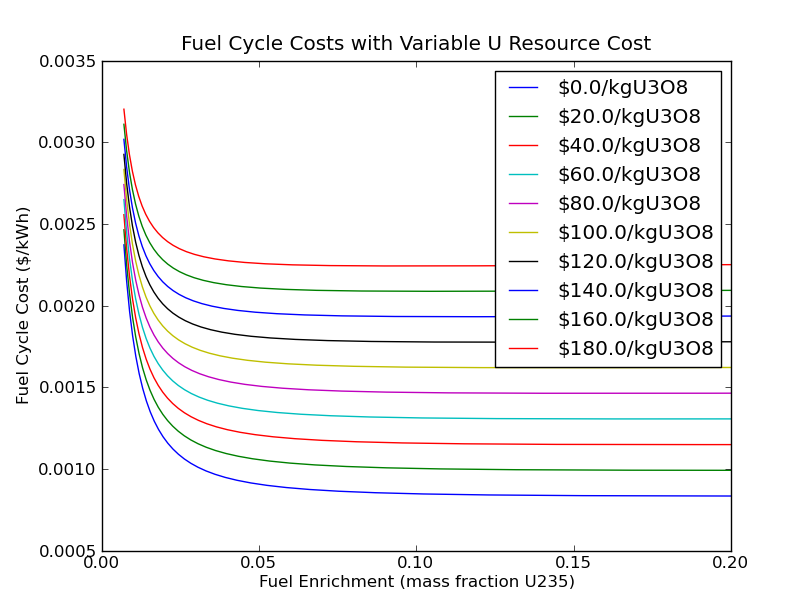
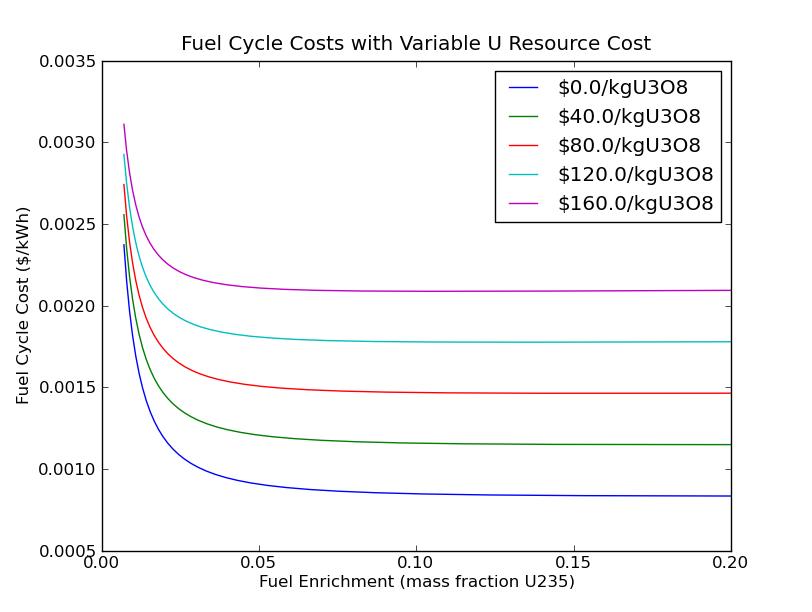
updated plots

Changed region(s): [[0.1539, 0.2173, 0.8929, 0.7451], [0.3079, 0.683, 0.8929, 0.7761], [0.7081, 0.2173, 0.7389, 0.2484]]

diff --git a/enrich.py b/enrich.py
@@ -106,7 +106,7 @@ def vary_dispose():
   maxenr = .2
   natenr = .0071
   enrichments = linspace(natenr, maxenr, 10000)
-  disp_costs = linspace(0, 2000, 10)
+  disp_costs = linspace(0, 2500, 5)
   for cost in disp_costs:
     valkg = []
     valkwh = []
@@ -129,7 +129,7 @@ def vary_mining():
   maxenr = .2
   natenr = .0071
   enrichments = linspace(natenr, maxenr, 10000)
-  mine_costs = linspace(0, 200, 10)
+  mine_costs = linspace(0, 200, 5)
   for cost in mine_costs:
     valkg = []
     valkwh = []
@@ -162,7 +162,7 @@ def swuplot():
     swus.append(s / p)
     feedswus.append(s)
 
-  plt.plot(enrichments, swus)
+  plt.plot(enrichments, feedswus)
   #plt.plot(enrichments, feedswus)
   plt.title('Energy Required for Enrichment')
   plt.xlabel('Fuel Enrichment (mass fraction U235)')
@@ -242,10 +242,10 @@ def front_back():
   plt.show()
 
 if __name__ == '__main__':
-  vary_dispose()
+  #vary_dispose()
   vary_mining()
-  only_enrich()
-  only_dispose()
-  front_back()
-  swuplot()
+  #only_enrich()
+  #only_dispose()
+  #front_back()
+  #swuplot()
 
